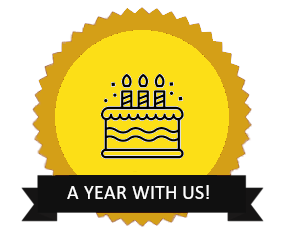
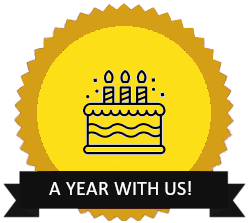
Refactoring of images

diff --git a/webapp/src/components/ProfilePage.vue b/webapp/src/components/ProfilePage.vue
@@ -39,14 +39,13 @@
         <div id="achievements_tab" class="tabcontent">
             <v-expansion-panels>
                 <v-expansion-panel
-                        v-for="(item,i) in 5"
-                        :key="i"
+                        v-for="(achievement,index) in achievements[0]"
+                        :key="index"
                 >
-                    <!-- qui ci va il numero di achievements dell'utente al posto del 5 -->
                     <v-expansion-panel-header disable-icon-rotate>
                         <div class="achievement-title">
-                            <v-img src="BurnItBaby.PNG" height="70%" width="70%"/>
-                        </div><span class="achievement-name">New Blood</span>
+                            <v-img contain :src='achievement+".PNG"' height="85%" width="85%"/>
+                        </div><span class="achievement-name">{{achievement}}</span>
                     </v-expansion-panel-header>
                     <v-expansion-panel-content >
                         Lorem ipsum dolor sit amet, consectetur adipiscing elit, sed do eiusmod tempor incididunt ut labore et dolore magna aliqua. Ut enim ad minim veniam, quis nostrud exercitation ullamco laboris nisi ut aliquip ex ea commodo consequat.
